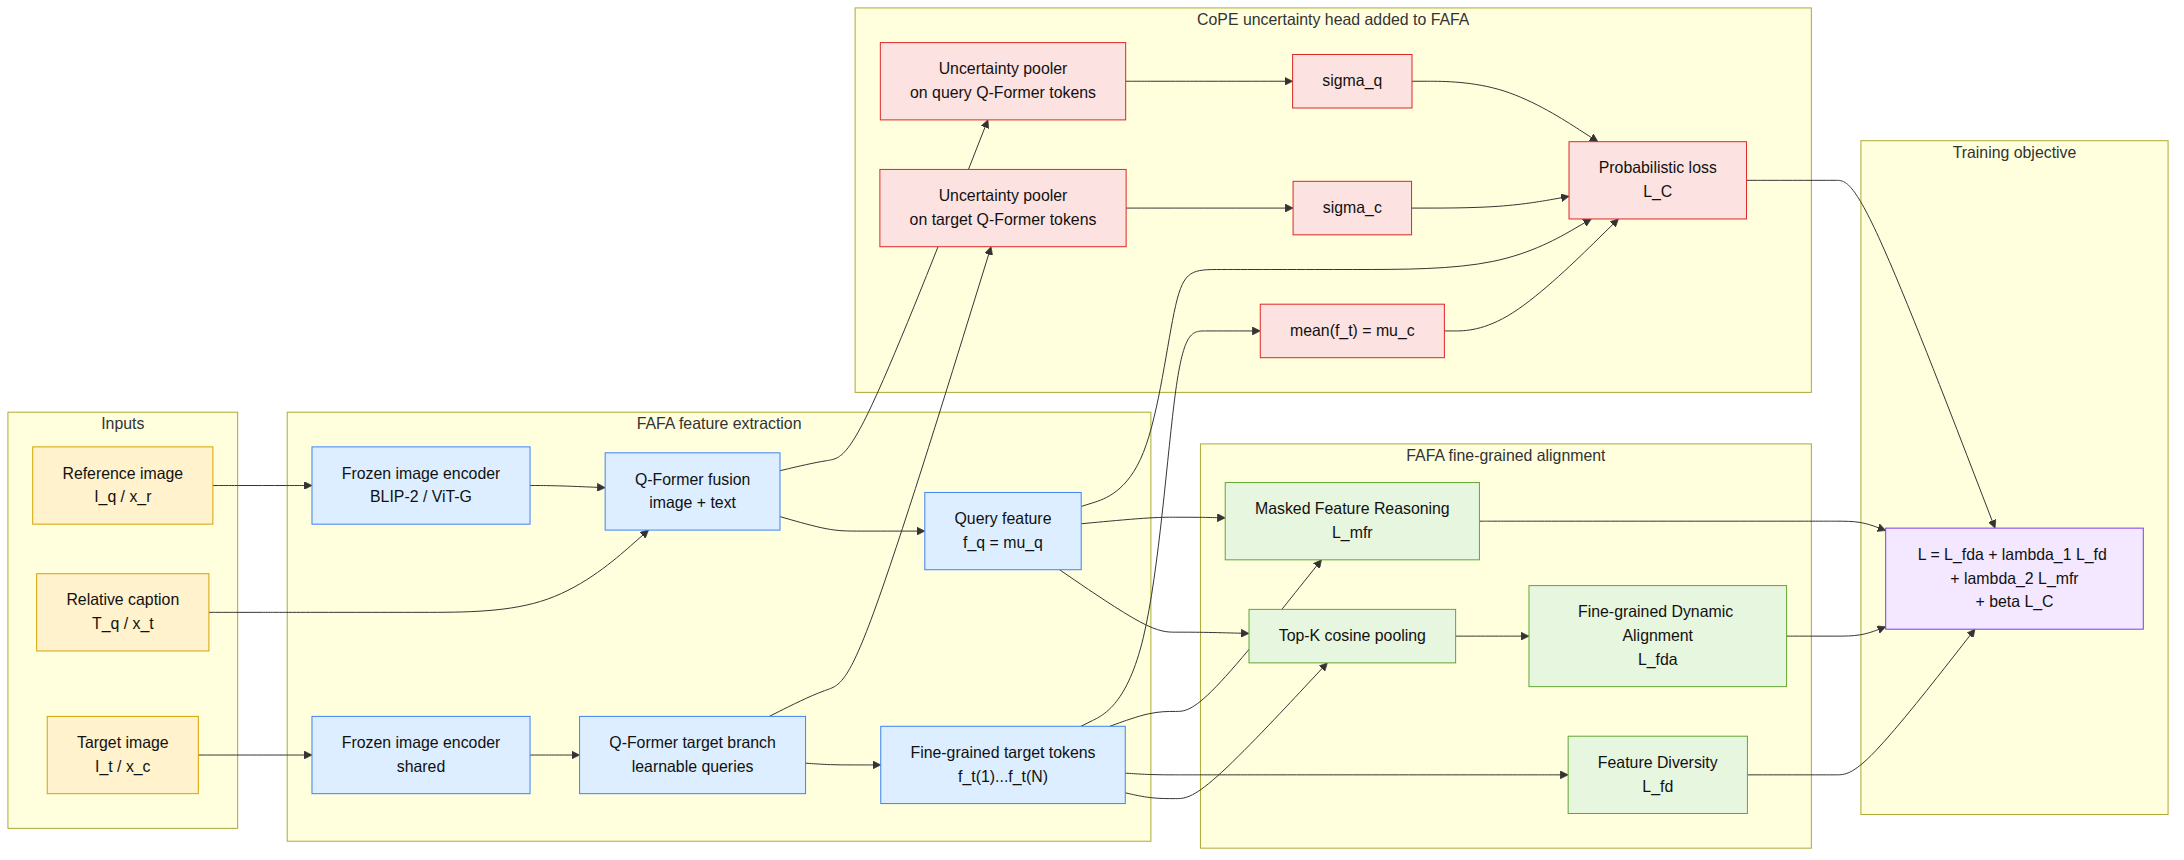
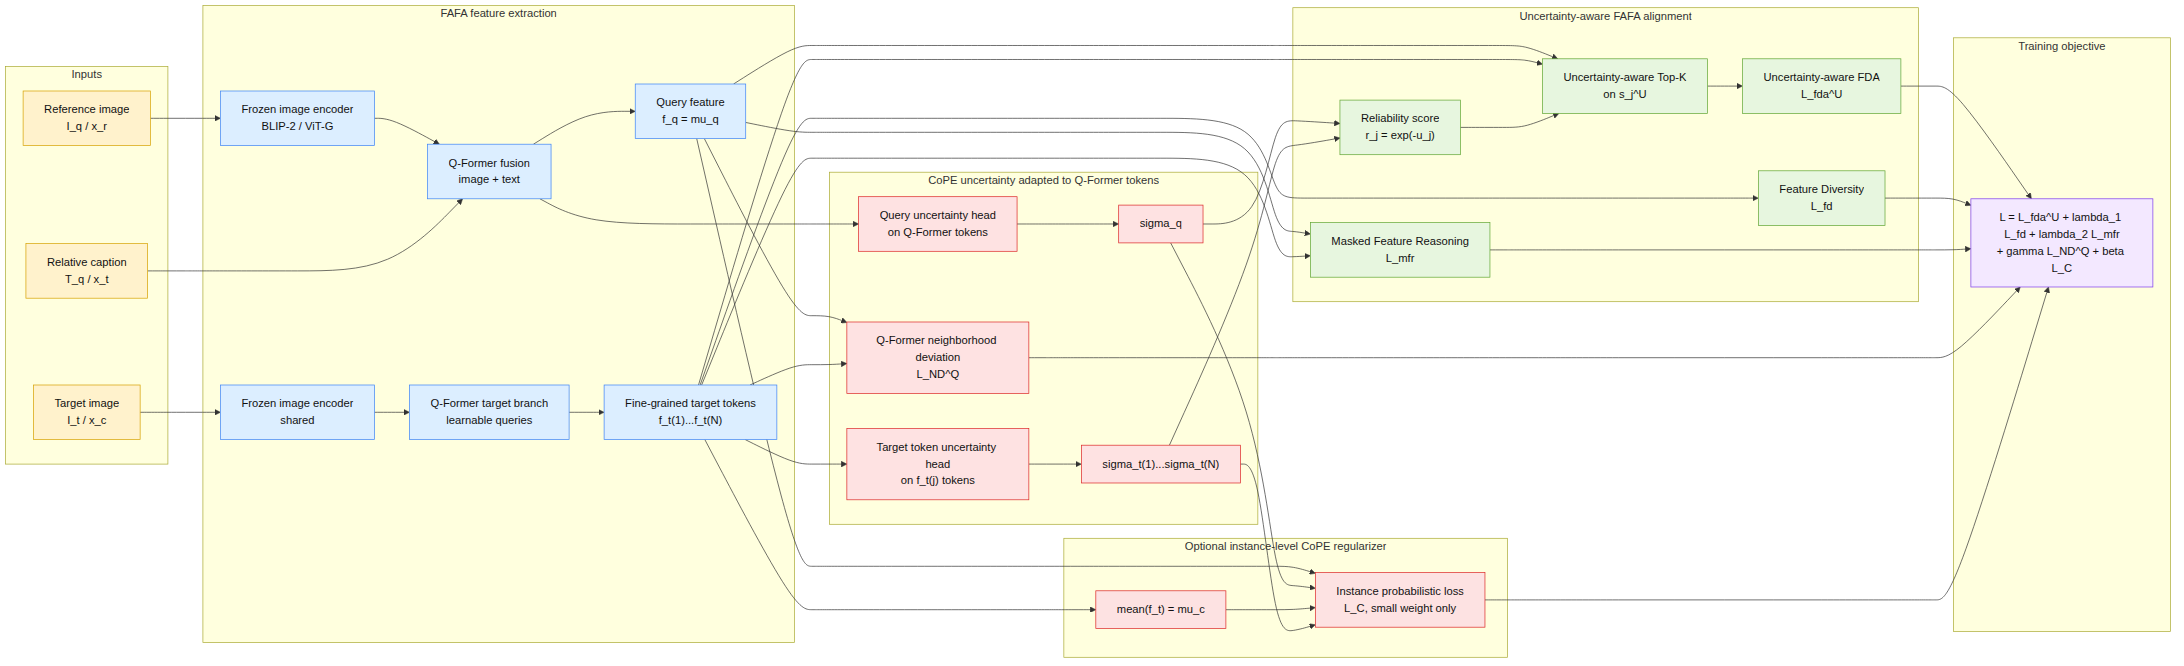
Refine CoPE into FAFA research direction

diff --git a/FAFA_SynCPR/experiments/research_direction/FAFA_COPE_THREE_DIRECTIONS_VI.md b/FAFA_SynCPR/experiments/research_direction/FAFA_COPE_THREE_DIRECTIONS_VI.md
@@ -17,7 +17,7 @@ Phần này cố tình vẽ theo bố cục của hai hình trong paper:
 
 ### Sơ đồ A: CoPE đưa vào FAFA
 
-Đây là kiểu "FAFA làm backbone chính, CoPE làm nhánh uncertainty phụ". Hình này bám theo FAFA ở phần Q-Former/FDA, rồi gắn thêm phần uncertainty giống CoPE ở bên phải.
+Đây không nên hiểu là "bê nguyên CoPE loss vào FAFA". Bản đúng đắn hơn là: FAFA vẫn làm backbone chính, nhưng uncertainty của CoPE phải tác động trực tiếp vào **token selection**, **Top-K alignment score**, và **loss weighting** của FAFA. Nếu uncertainty chỉ được thêm như một loss phụ bên cạnh `L_fda`, nó yếu và không giải quyết điểm đau cụ thể nào.
 
 ![Sơ đồ A: CoPE đưa vào FAFA](mermaid_exports/01_cope_into_fafa_paper_like.png)
 
@@ -38,66 +38,81 @@ flowchart LR
         Ft["Fine-grained target tokens<br/>f_t(1)...f_t(N)"]
     end
 
-    subgraph ALIGN["FAFA fine-grained alignment"]
-        TOPK["Top-K cosine pooling"]
-        FDA["Fine-grained Dynamic Alignment<br/>L_fda"]
+    subgraph UQ["CoPE uncertainty adapted to Q-Former tokens"]
+        Uq["Query uncertainty head<br/>on Q-Former tokens"]
+        Ut["Target token uncertainty head<br/>on f_t(j) tokens"]
+        Sq["sigma_q"]
+        St["sigma_t(1)...sigma_t(N)"]
+        ND["Q-Former neighborhood deviation<br/>L_ND^Q"]
+    end
+
+    subgraph ALIGN["Uncertainty-aware FAFA alignment"]
+        REL["Reliability score<br/>r_j = exp(-u_j)"]
+        TOPK["Uncertainty-aware Top-K<br/>on s_j^U"]
+        FDA["Uncertainty-aware FDA<br/>L_fda^U"]
         FD["Feature Diversity<br/>L_fd"]
         MFR["Masked Feature Reasoning<br/>L_mfr"]
     end
 
-    subgraph COPE["CoPE uncertainty head added to FAFA"]
-        Uq["Uncertainty pooler<br/>on query Q-Former tokens"]
-        Uc["Uncertainty pooler<br/>on target Q-Former tokens"]
-        Sq["sigma_q"]
-        Sc["sigma_c"]
+    subgraph INST["Optional instance-level CoPE regularizer"]
         Muc["mean(f_t) = mu_c"]
-        LC["Probabilistic loss<br/>L_C"]
+        LC["Instance probabilistic loss<br/>L_C, small weight only"]
     end
 
     subgraph OUT["Training objective"]
-        L1["L = L_fda + lambda_1 L_fd + lambda_2 L_mfr<br/>+ beta L_C"]
+        L1["L = L_fda^U + lambda_1 L_fd + lambda_2 L_mfr<br/>+ gamma L_ND^Q + beta L_C"]
     end
 
     Iq --> V1 --> Q1
     Tq --> Q1 --> Fq
     It --> V2 --> Q2 --> Ft
 
+    Q1 --> Uq --> Sq
+    Ft --> Ut --> St
+    Fq --> ND
+    Ft --> ND
+
+    Sq --> REL
+    St --> REL
     Fq --> TOPK
-    Ft --> TOPK --> FDA
+    Ft --> TOPK
+    REL --> TOPK --> FDA
     Ft --> FD
     Fq --> MFR
     Ft --> MFR
 
-    Q1 --> Uq --> Sq
-    Q2 --> Uc --> Sc
     Ft --> Muc
     Fq --> LC
     Sq --> LC
     Muc --> LC
-    Sc --> LC
+    St --> LC
 
     FDA --> L1
     FD --> L1
     MFR --> L1
+    ND --> L1
     LC --> L1
 
     classDef input fill:#fff2cc,stroke:#d6a100,color:#111;
     classDef fafa fill:#dceeff,stroke:#3b82f6,color:#111;
+    classDef uncertainty fill:#fee2e2,stroke:#dc2626,color:#111;
     classDef align fill:#e7f6df,stroke:#60a533,color:#111;
     classDef cope fill:#fde2e2,stroke:#dc2626,color:#111;
     classDef loss fill:#f3e8ff,stroke:#7c3aed,color:#111;
     class Iq,Tq,It input;
     class V1,V2,Q1,Q2,Fq,Ft fafa;
-    class TOPK,FDA,FD,MFR align;
-    class Uq,Uc,Sq,Sc,Muc,LC cope;
+    class Uq,Ut,Sq,St,ND uncertainty;
+    class REL,TOPK,FDA,FD,MFR align;
+    class Muc,LC cope;
     class L1 loss;
 ```
 
 Đọc hình này như sau:
 
 - Đường chính vẫn là FAFA: `I_q + T_q -> Q-Former -> f_q`, `I_t -> Q-Former -> f_t`, rồi tính `Sim(f_q, f_t)` bằng Top-K local alignment.
-- CoPE chỉ được gắn thêm như nhánh phụ: từ Q-Former tokens suy ra `sigma_q, sigma_c`, rồi thêm `L_C`.
-- Nếu chỉ làm vậy, đây là regularizer uncertainty, chưa phải một architecture CoPE-FAFA thật sự mạnh.
+- CoPE không chỉ là nhánh phụ. Nó tạo `sigma_q` và `sigma_t(j)` để biết query/token nào đáng tin.
+- FDA không còn chọn Top-K chỉ theo cosine, mà chọn theo score đã hiệu chỉnh bởi uncertainty.
+- `L_C` nếu dùng thì chỉ nên là regularizer nhỏ ở mức instance. Phần chính phải là `L_fda^U`, tức uncertainty-aware FDA.
 
 ### Sơ đồ B: FAFA đưa vào CoPE
 
@@ -283,7 +298,23 @@ Theo FAFA:
 
 ## Hướng 1: Đưa CoPE vào FAFA
 
-Ý tưởng: giữ kiến trúc FAFA làm backbone chính, sau đó thêm đầu uncertainty kiểu CoPE lên các token của Q-Former. Đây chính là kiểu mà thư mục `FAFA_SynCPR-20260508T090947Z-3-001` từng làm dang dở.
+Ý tưởng đúng đắn hơn: giữ FAFA làm backbone chính, nhưng đưa uncertainty của CoPE vào đúng chỗ FAFA dễ sai nhất: **chọn local token nào để align**.
+
+FAFA dùng Top-K trên các token `f_t(j)`. Cơ chế này mạnh vì bắt được chi tiết nhỏ, nhưng cũng có điểm yếu: nếu một token target có cosine cao do nhiễu, background, pose, hoặc caption mơ hồ, Top-K có thể kéo score lên sai. CoPE có ý nghĩa ở đây nếu nó học được độ không chắc chắn của query/token và làm cho FDA bớt overconfident.
+
+Vì vậy, hướng này không nên là:
+
+```text
+L = L_fda + lambda_1 L_fd + lambda_2 L_mfr + beta L_C
+```
+
+với `L_C` treo bên cạnh. Công thức đó chỉ là bản dễ làm, nhưng yếu về mặt nghiên cứu.
+
+Hướng nên làm là:
+
+```text
+FAFA + CoPE = Uncertainty-aware Fine-grained Dynamic Alignment
+```
 
 ```mermaid
 flowchart LR
@@ -291,22 +322,23 @@ flowchart LR
     T["Relative caption T_q / x_t"] --> QF["Q-Former fusion"]
     Vq --> QF
 
-    QF --> FQ["Query feature f_q = mu_q"]
+    QF --> FQ["Query feature f_q"]
     QF --> QTOK["Q-Former query tokens"]
-    QTOK --> UQ["CoPE-style uncertainty pooler"]
+    QTOK --> UQ["Query uncertainty head"]
     UQ --> SQ["sigma_q"]
 
     C["Target image I_t / x_c"] --> Vt["FAFA frozen image encoder"]
     Vt --> TQF["Q-Former target branch"]
     TQF --> FT["Target fine-grained features f_t"]
-    FT --> FTMEAN["mean pool f_t = mu_c"]
-    TQF --> CTOK["Target Q-Former tokens"]
-    CTOK --> UC["CoPE-style uncertainty pooler"]
-    UC --> SC["sigma_c"]
+    FT --> UT["Token uncertainty head"]
+    UT --> ST["sigma_t(1)...sigma_t(N)"]
 
-    FQ --> FDA["FDA Top-K alignment Sim(f_q, f_t)"]
-    FT --> FDA
-    FDA --> LFDA["L_fda"]
+    FQ --> SCORE["Uncertainty-aware token scores s_j^U"]
+    FT --> SCORE
+    SQ --> SCORE
+    ST --> SCORE
+    SCORE --> TOPK["Reliable Top-K token pooling"]
+    TOPK --> LFDA["L_fda^U"]
 
     FT --> FD["Feature diversity"]
     FD --> LFD["L_fd"]
@@ -315,15 +347,15 @@ flowchart LR
     FT --> MFR
     MFR --> LMFR["L_mfr"]
 
-    FQ --> LC["CoPE probabilistic loss L_C"]
-    SQ --> LC
-    FTMEAN --> LC
-    SC --> LC
+    FQ --> ND["Q-Former neighborhood deviation L_ND^Q"]
+    FT --> ND
+    SQ --> ND
+    ST --> ND
 
     LFDA --> LT["Total loss"]
     LFD --> LT
     LMFR --> LT
-    LC --> LT
+    ND --> LT
 ```
 
 Similarity chính của FAFA:
@@ -364,46 +396,89 @@ L_mfr =
 L_FAFA = L_fda + lambda_1 * L_fd + lambda_2 * L_mfr
 ```
 
-Thêm CoPE vào FAFA:
+Thiết kế CoPE vào FAFA nên sửa score local trước. Gọi:
 
 ```text
-z_q = (mu_q, sigma_q) = (f_q, sigma_q)
-z_c = (mu_c, sigma_c) = (mean(f_t), sigma_c)
+mu_q = f_q
+mu_tj = f_t(j)
 
-d(z_q, z_c) =
-  ||mu_q - mu_c||_2^2
-  + ||sigma_q - sigma_c||_2^2
-  + 2D * mean(sigma_q) * mean(sigma_c)
-
-L_FAFA+CoPE =
-  L_fda
-  + lambda_1 * L_fd
-  + lambda_2 * L_mfr
-  + beta * L_C
+sigma_q  = uncertainty của query
+sigma_tj = uncertainty của target token j
+u_j = mean(sigma_q) + mean(sigma_tj)
 ```
 
-Nếu muốn làm chặt hơn, có thể thêm feature-wise uncertainty kiểu CoPE:
+Thay vì dùng cosine thô:
 
 ```text
-L_FAFA+CoPE+ND =
-  L_fda
-  + lambda_1 * L_fd
-  + lambda_2 * L_mfr
-  + beta * L_C
-  + gamma * L_ND^QFormer
+s_j = cos(f_q, f_t(j))
 ```
 
-Trong đó `L_ND^QFormer` không lấy neighbor trên CLIP vector như CoPE gốc, mà lấy neighbor trên `f_q` hoặc `mean(f_t)` của FAFA.
+dùng score có xét độ tin cậy:
+
+```text
+s_j^U = cos(f_q, f_t(j)) - alpha_u * u_j
+```
+
+hoặc dạng probabilistic distance chặt hơn:
+
+```text
+d_j^U =
+  ||mu_q - mu_tj||_2^2 / (sigma_q^2 + sigma_tj^2 + eps)
+  + log(sigma_q^2 + sigma_tj^2 + eps)
+
+s_j^U = -d_j^U
+```
+
+Sau đó FDA dùng Top-K trên `s_j^U`:
+
+```text
+TopK_U = TopK({s_j^U}_{j=1}^{N})
+
+w_j = softmax(-u_j / tau_u), với j thuộc TopK_U
+
+Sim_U(f_q, f_t) =
+  sum_{j thuộc TopK_U} w_j * cos(f_q, f_t(j))
+```
+
+Loss chính:
+
+```text
+L_fda^U =
+  KL(softmax(Sim_U / tau) || q)
+  + reverse direction nếu training bidirectional
+```
+
+Regularizer uncertainty cần có, nếu không `sigma` rất dễ thành hằng số vô nghĩa:
+
+```text
+L_ND^Q =
+  || sigma_q - deviation(N_q) ||_2^2
+  + mean_j || sigma_tj - deviation(N_tj) ||_2^2
+```
+
+Objective đề xuất:
+
+```text
+L_FAFA+CoPE-correct =
+  L_fda^U
+  + lambda_1 * L_fd
+  + lambda_2 * L_mfr
+  + gamma * L_ND^Q
+  + beta * L_C_instance
+```
+
+Trong đó `beta` nên nhỏ. `L_C_instance` chỉ là phụ, ví dụ dùng `(f_q, sigma_q)` và `(mean(f_t), mean_j sigma_tj)` để giữ tương thích với tinh thần CoPE. Nếu bỏ `L_C_instance` vẫn được; phần đáng nghiên cứu là `L_fda^U + L_ND^Q`.
 
 Đánh giá trung thực:
 
-- Ưu điểm: dễ triển khai nhất vì FAFA đã có Q-Former token, còn uncertainty head của CoPE có thể gắn vào token này khá tự nhiên.
-- Ưu điểm: hợp lý nếu đích cuối là SynCPR / ITCPR vì FAFA vốn sinh ra cho composed person retrieval.
-- Nhược điểm: đây không thật sự là "CoPE đầy đủ vào FAFA", vì không dùng backbone CLIP và không giữ nguyên pipeline CoPE.
-- Nhược điểm lớn: nếu chỉ thêm `L_C` như auxiliary loss, khả năng cải thiện nhỏ hoặc không ổn định. Nó giống regularizer hơn là một module truy hồi mới.
+- Ưu điểm: câu chuyện hợp lý hơn: CoPE giúp FAFA biết token nào không chắc, thay vì ép mọi Top-K token có giá trị như nhau.
+- Ưu điểm: bám đúng hình FAFA vì vẫn giữ Q-Former, `f_q`, `f_t`, FDA, MFR.
+- Ưu điểm: bám đúng tinh thần CoPE vì uncertainty không chỉ để báo cáo, mà đi vào scoring và loss.
+- Nhược điểm: phải train uncertainty thật. Nếu `sigma` bị hằng số, hướng này coi như thất bại.
+- Nhược điểm: cần cẩn thận để uncertainty không trở thành đường tắt làm giảm loss bằng cách phạt mọi token khó.
 - Nhược điểm cho FashionIQ: FAFA là person-centric, còn FashionIQ là product-centric. Không có ID/GID rõ như SynCPR nên `L_fda` phải sửa.
 
-Kết luận cho hướng này: đáng làm nếu mục tiêu là SynCPR/ITCPR. Không nên chọn làm hướng đầu tiên nếu mục tiêu là chứng minh cải thiện trên FashionIQ.
+Kết luận cho hướng này: nếu nói "CoPE vào FAFA" cho đúng nghĩa, nên làm uncertainty-aware FDA như trên. Bản chỉ thêm `CoPELoss` vào FAFA là baseline kỹ thuật, không phải hướng nghiên cứu tốt.
 
 ## Hướng 2: Đưa FAFA vào CoPE
 